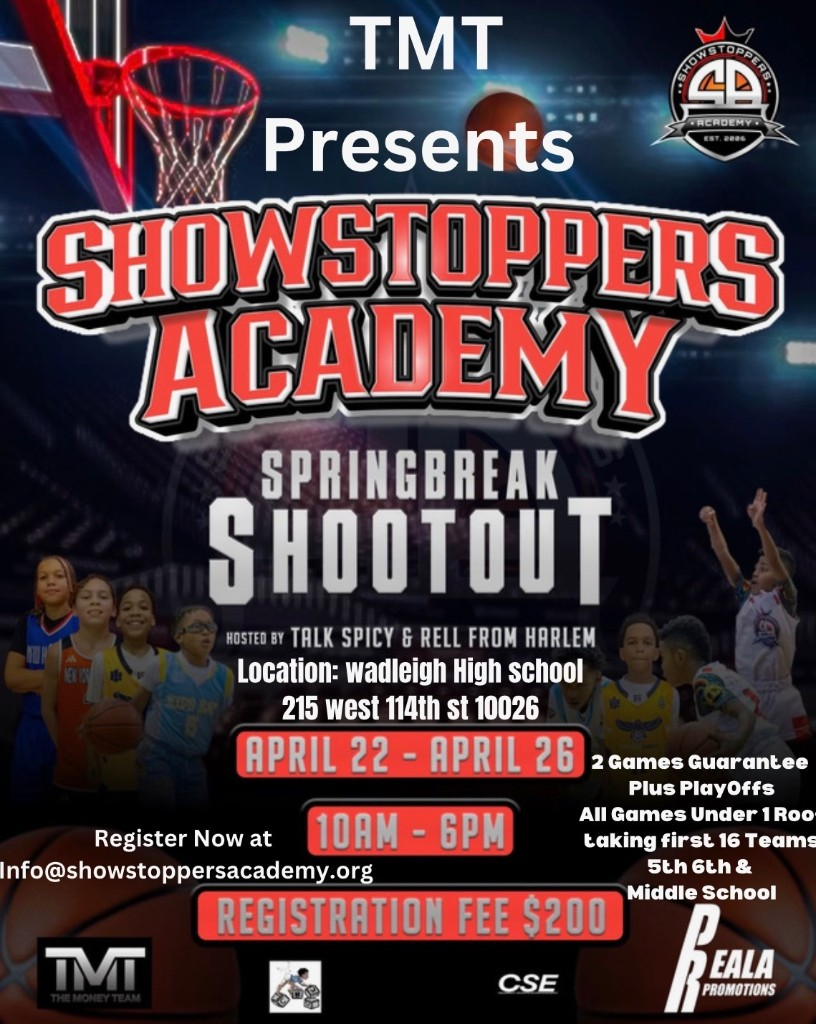
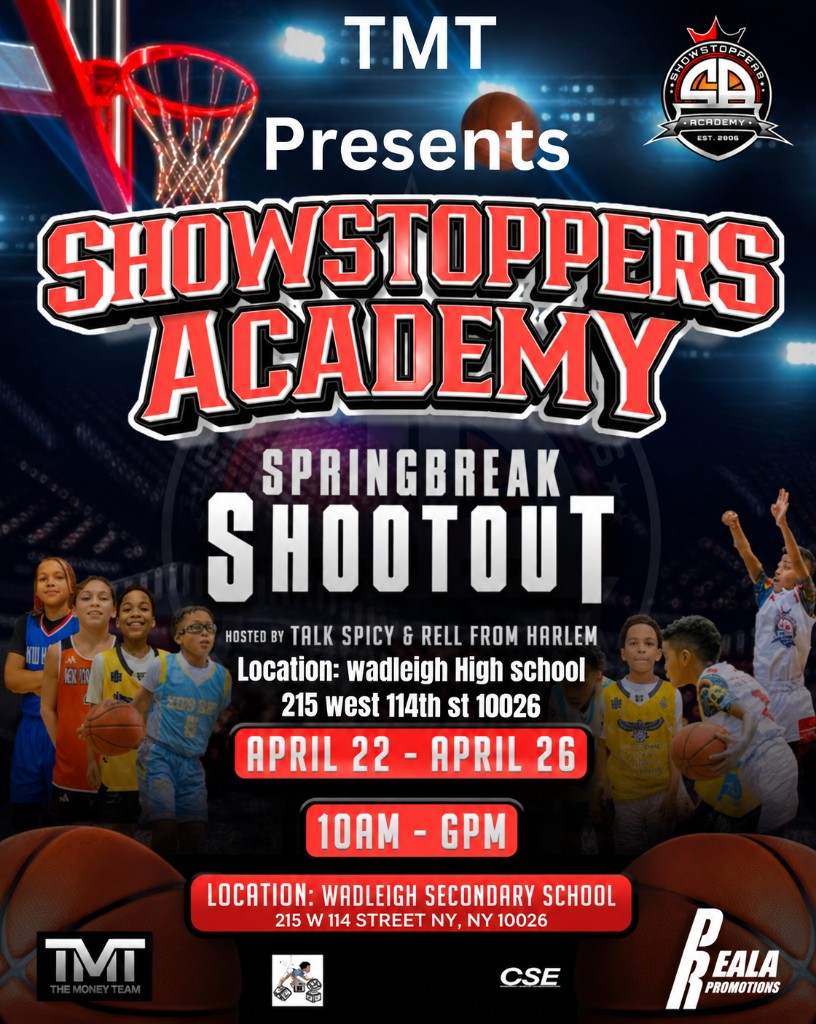
Replace the $200 registration flyer with the Springbreak Shootout poster and remove the Fordham Prep free flyer.

diff --git a/portfolio-item.html b/portfolio-item.html
@@ -244,27 +244,14 @@
                     </div>
                 </div>
                 
-                <!-- Gallery Item 2 -->
-                <div class="group cursor-pointer" data-stagger-item data-animate="fade" data-category="events" onclick="openLightbox('Poster2.JPEG', 'Monday Madness Flyer')">
-                    <div class="relative overflow-hidden rounded-xl sm:rounded-xl sm:rounded-2xl shadow-lg group-hover:shadow-xl transition-all duration-300 active:scale-95 sm:active:scale-100 active:scale-95 sm:active:scale-100">
-                        <img src="Poster2.JPEG" alt="Monday Madness Flyer" class="w-full h-48 sm:h-64 object-cover group-hover:scale-110 transition-transform duration-500" loading="lazy">
-                        <div class="absolute inset-0 bg-gradient-to-t from-black/60 to-transparent opacity-0 group-hover:opacity-100 transition-opacity duration-300 flex items-end">
-                            <div class="p-4 sm:p-6 text-white">
-                                <h3 class="font-semibold text-base sm:text-lg mb-1 sm:mb-2">Monday Madness</h3>
-                                <p class="text-xs sm:text-sm">Open run at Fordham Prep</p>
-                            </div>
-                        </div>
-                    </div>
-                </div>
-                
                 <!-- Gallery Item 3 -->
                 <div class="group cursor-pointer" data-stagger-item data-animate="fade" data-category="events" onclick="openLightbox('Poster3.JPEG', 'Springbreak Shootout Flyer')">
-                    <div class="relative overflow-hidden rounded-xl sm:rounded-2xl shadow-lg group-hover:shadow-xl transition-all duration-300 active:scale-95 sm:active:scale-100">
-                        <img src="Poster3.JPEG" alt="Springbreak Shootout Flyer" class="w-full h-48 sm:h-64 object-cover group-hover:scale-110 transition-transform duration-500" loading="lazy">
+                    <div class="relative overflow-hidden rounded-xl sm:rounded-2xl shadow-lg group-hover:shadow-xl transition-all duration-300 active:scale-95 sm:active:scale-100 bg-black">
+                        <img src="Poster3.JPEG" alt="Showstoppers Academy Springbreak Shootout flyer, April 22 to April 26 at Wadleigh Secondary School" class="w-full h-80 sm:h-96 object-contain group-hover:scale-105 transition-transform duration-500" loading="lazy">
                         <div class="absolute inset-0 bg-gradient-to-t from-black/60 to-transparent opacity-0 group-hover:opacity-100 transition-opacity duration-300 flex items-end">
                             <div class="p-4 sm:p-6 text-white">
                                 <h3 class="font-semibold text-base sm:text-lg mb-1 sm:mb-2">Springbreak Shootout</h3>
-                                <p class="text-xs sm:text-sm">Tournament weekend highlight</p>
+                                <p class="text-xs sm:text-sm">April 22–26 at Wadleigh</p>
                             </div>
                         </div>
                     </div>
